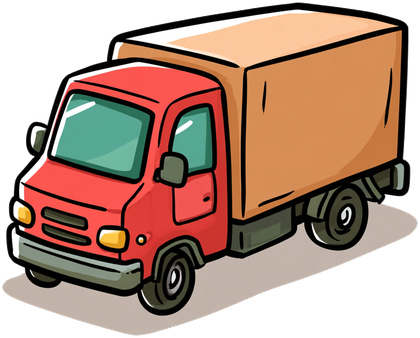
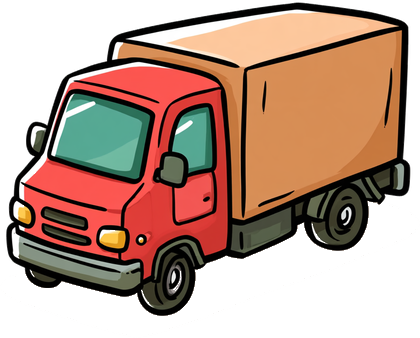
광장: 퇴근 예정 시각이 지나면 불 끄기 (mem 이 정해진 시각에만 들어와서 '퇴근'이 늦게 반영되던 것) · 트럭 그림자를 따로 떼서 트럭만 드릉드릉
Claude-Session: https://claude.ai/code/session_01FJjmZS4UAcAfVvvFLL5GtA

Changed region(s): [[0.0, 0.5917, 1.0, 1.0]]

diff --git a/src/pages/Plaza.tsx b/src/pages/Plaza.tsx
@@ -91,7 +91,12 @@ function lightOf(r: Attendance | undefined, nowMin: number, todayIso = ''): { on
     const b = Number(tm[3]) * 60 + Number(tm[4]);
     if (nowMin >= a && nowMin < b) return { on: false, sign: /시차/.test(txt) ? '대체시차' : /반차/.test(txt) ? '반차' : '외출', icon: '⏱', msg: `곧 갑니다! ${hourText(b)}에 봐요 🏃` };
   }
-  if (r.status === '근무') return { on: true, sign: '', icon: '' };
+  if (r.status === '근무') {
+    // mem 은 정해진 시각에만 받아 와서 '퇴근' 이 늦게 들어옴 → 퇴근 예정 시각이 지났으면 퇴근으로
+    const [eh, em] = (r.end ?? '').split(':').map(Number);
+    if (r.end && Number.isFinite(eh) && nowMin >= eh * 60 + (em || 0)) return { on: false, sign: '퇴근', icon: '🌙', msg: '오늘 영업\n끝났습니다', memo: true };
+    return { on: true, sign: '', icon: '' };
+  }
   if (r.status === '근무전') {
     // 아침 시차로 늦게 오는 날: 시차가 끝나는 시각
     if (tm && /시차|반차|외출/.test(txt) && Number(tm[1]) < 12) return { on: false, sign: '곧 출근', icon: '⏱', msg: `곧 갑니다! ${hourText(Number(tm[3]) * 60 + Number(tm[4]))}에 봐요 🏃` };
@@ -553,6 +558,7 @@ export default function Plaza() {
             )}
           </div>
           <div className={`pz-truck ${truckOpen ? 'open' : ''}`} onMouseEnter={() => setTruckOpen(true)} onMouseLeave={() => setTruckOpen(false)} onClick={() => setTruckOpen((v) => !v)}>
+            <img className="pz-truck-shadow" src="./plaza/truck-shadow.png" alt="" draggable={false} />
             <img className="pz-truck-img" src="./plaza/truck.png" alt="출고 트럭" draggable={false} />
             <span className="pz-truck-n">출고 예정 {ships.length}</span>
             {truckOpen && (

diff --git a/src/styles.css b/src/styles.css
@@ -9815,3 +9815,6 @@ html.pz-open .mcal-btn, html.pz-open .mcal-pop { display: none; }
 .pz-pv-pop { min-width: 380px; }
 .pz-pv-pop > div { flex-wrap: nowrap; }
 @media (max-width: 480px) { .pz-pv-pop { min-width: 0; width: 92vw; } .pz-pv-pop > div { flex-wrap: wrap; } }
+/* 트럭 그림자는 바닥에 가만히 (트럭만 드릉드릉) */
+.pz-truck-shadow { position: absolute; left: 0; top: 0; width: 100%; height: auto; pointer-events: none; user-select: none; }
+.pz-truck-img { position: relative; }
